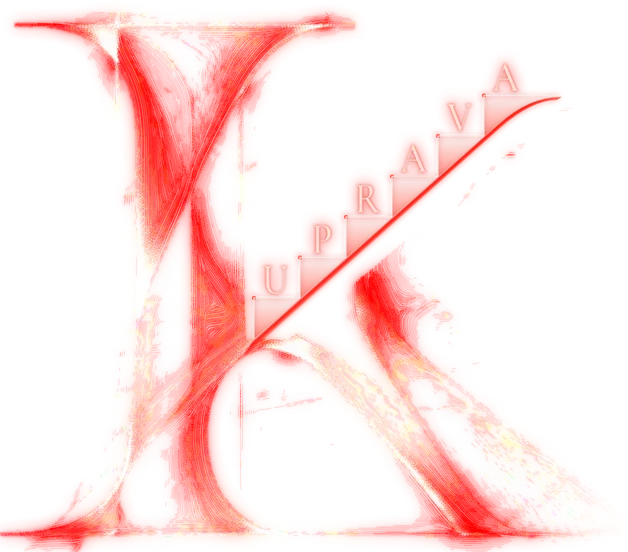
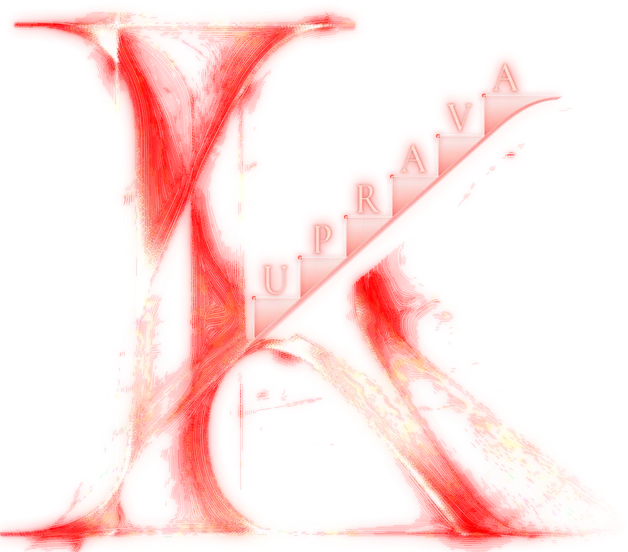
Soften the staircase edge so it blends into the K
The arm's threads turned fully red and stayed bright over a narrow band,
which read as one hard red line. The colour now turns from silver to red
across the whole sheet and its light fades out smoothly with no bright
peak, and the glow behind it is wider and softer. K images regenerated.

Claude-Session: https://claude.ai/code/session_01Gk3TK8zn3Nf2aeoCujnWzf

Changed region(s): [[0.3933, 0.2156, 0.8169, 0.6467], [0.8169, 0.154, 0.9076, 0.2156]]

diff --git a/src/hero.js b/src/hero.js
@@ -42,9 +42,10 @@ function drawArm(svg) {
     const xc = ARM.x0 + (armY(ARM.x0) + off(xBend) - yH) / ARM.slope; // the diagonal meets the flat line here
     const d = `M${f1(a[0])},${f1(a[1])} L${f1(s0[0])},${f1(s0[1])} Q${f1(xc)},${f1(yH)} ${f1(xEnd - 6 * t)},${f1(yH)}`;
     // silver along the top turning red, then fading into the threads below
-    const r = Math.min(1, t / 0.35);
+    // no hard edge anywhere: the colour turns gradually and the light fades out smoothly
+    const r = t ** 0.7;
     const c = [Math.round(242 + 13 * r), Math.round(234 - 196 * r), Math.round(234 - 208 * r)];
-    const o = t < 0.35 ? 0.6 : 0.6 * (1 - (t - 0.35) / 0.65) ** 1.4 + 0.04;
+    const o = 0.5 * (1 - t) ** 1.8 + 0.02;
     el('path', { d, fill: 'none', stroke: `rgb(${c.join(',')})`, 'stroke-opacity': o.toFixed(2) }, arm);
   }
   // the same sheet, blurred, for the glow

diff --git a/src/style.css b/src/style.css
@@ -147,10 +147,10 @@ body[data-lang='ge'] .sec-title, body[data-lang='jp'] .sec-title { font-size: cl
 @keyframes kDraw { 30% { opacity: 1; } to { opacity: 1; clip-path: inset(0 0 0 0); } }
 .arm path { stroke-width: 0.8; vector-effect: non-scaling-stroke; }
 .arm, .arm-glow { opacity: 0; }
-.arm-glow { filter: blur(calc(var(--u) * 3)) brightness(1.6); }
+.arm-glow { filter: blur(calc(var(--u) * 7)) brightness(1.4) saturate(1.3); }
 .ready .arm { animation: fadeIn 1.2s 1.4s forwards; }
 .ready .arm-glow { animation: armGlow 1.6s 1.6s forwards; }
-@keyframes armGlow { to { opacity: 0.8; } }
+@keyframes armGlow { to { opacity: 0.9; } }
 
 .step-face { fill: url(#stepFace); opacity: 0; }
 .ready .step-face { animation: fadeIn 1.4s var(--ease) 2.4s forwards; }
